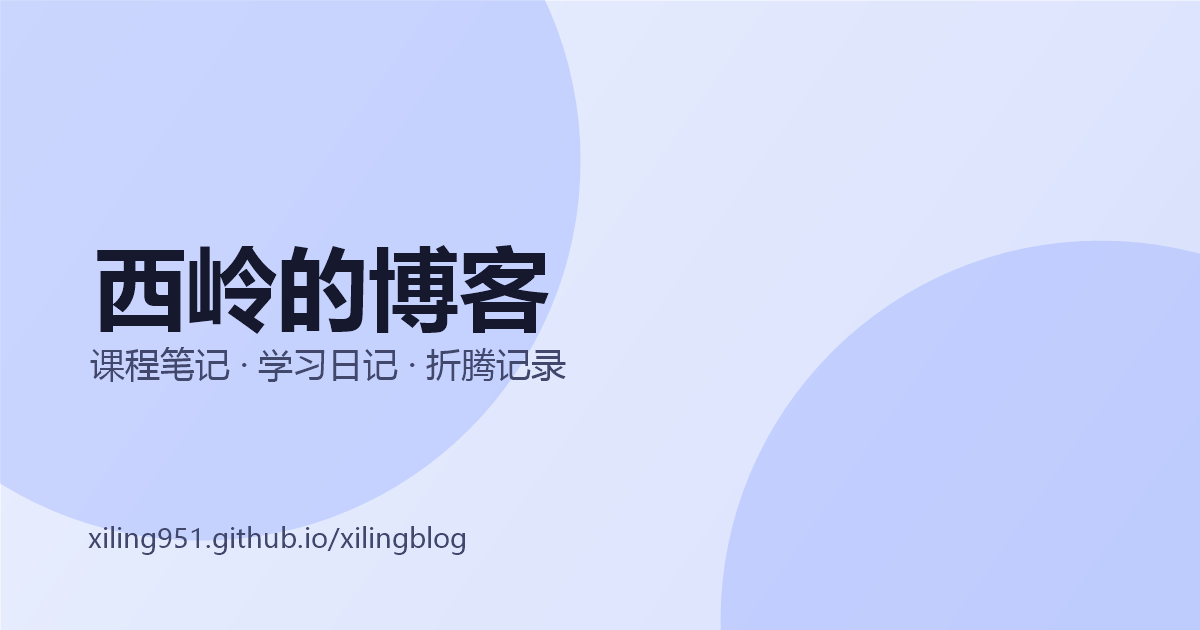
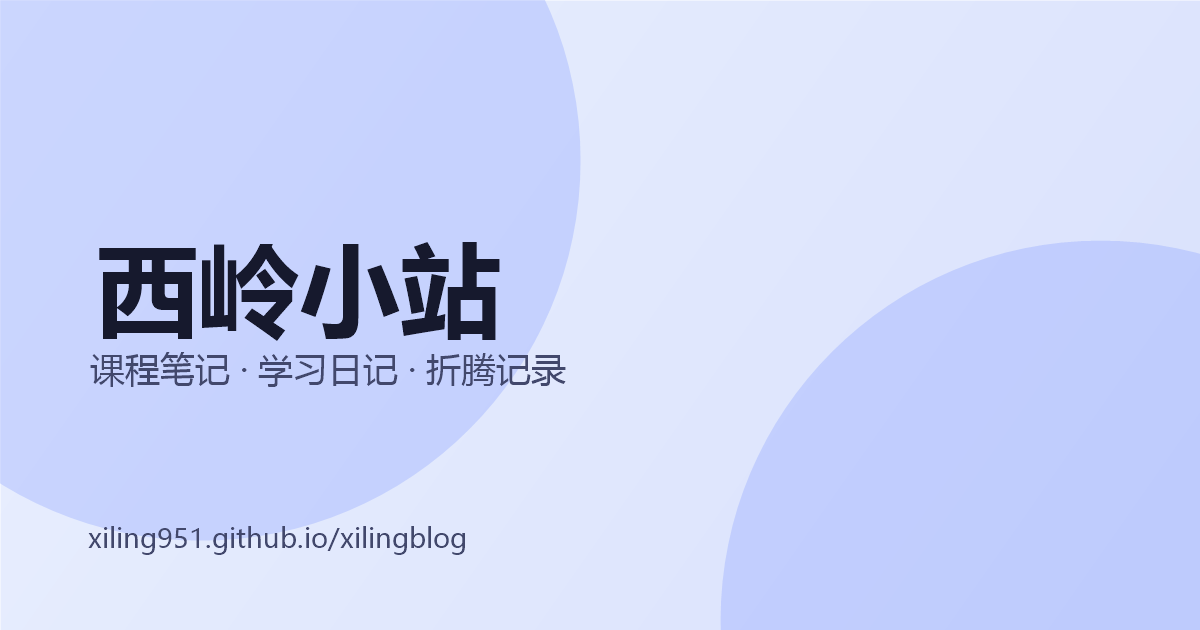
chore: 站点名改为「西岭小站」（含 RSS 标题与 OG 分享图重绘）

Changed region(s): [[0.0617, 0.3619, 0.4933, 0.6333]]

diff --git a/src/config.ts b/src/config.ts
@@ -7,13 +7,13 @@
 
 export const siteConfig = {
   /** 站点名 / 首页大标题 */
-  title: '西岭的博客',
+  title: '西岭小站',
   /** 首页副标题（显示在标题下方） */
   subtitle: '把课程笔记、学习日记和折腾记录都放在这里',
   /** 浏览器标签页标题后缀 */
-  titleSuffix: '西岭的博客',
+  titleSuffix: '西岭小站',
   /** 描述（SEO / RSS） */
-  description: '西岭的个人博客：课程笔记、学习日记和折腾记录',
+  description: '西岭小站：课程笔记、学习日记和折腾记录',
   /** 主题色相（0-360）—— 整个站点的配色都由它推导 */
   themeHue: 240,
   /** 默认配色模式：'auto' | 'light' | 'dark' */
